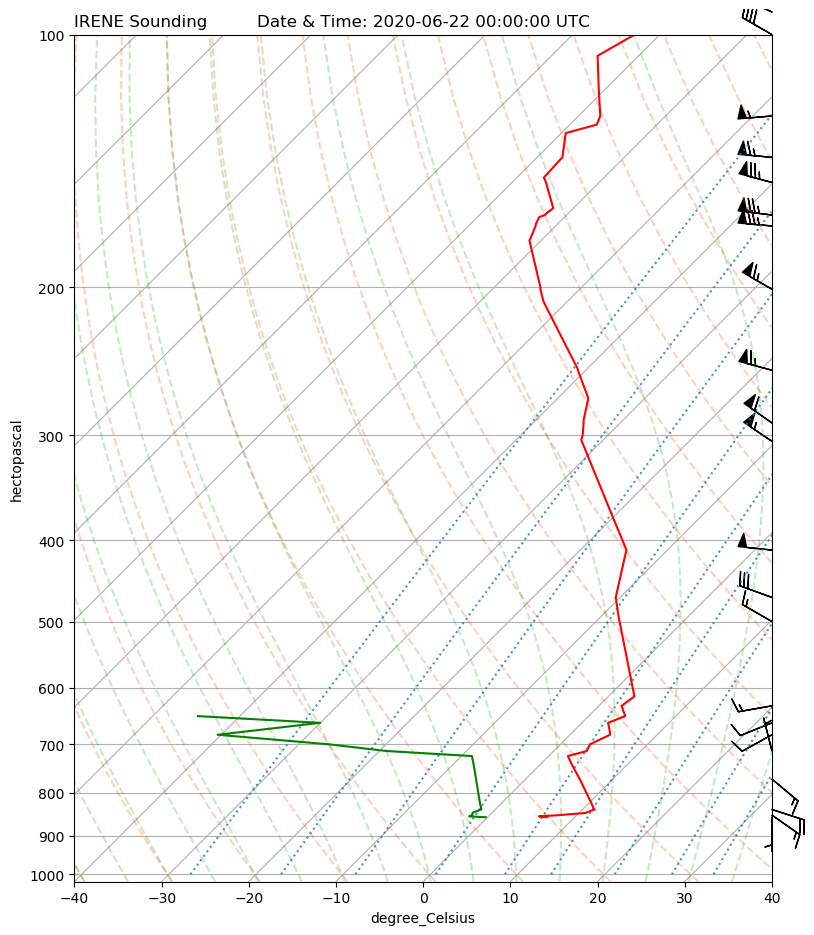
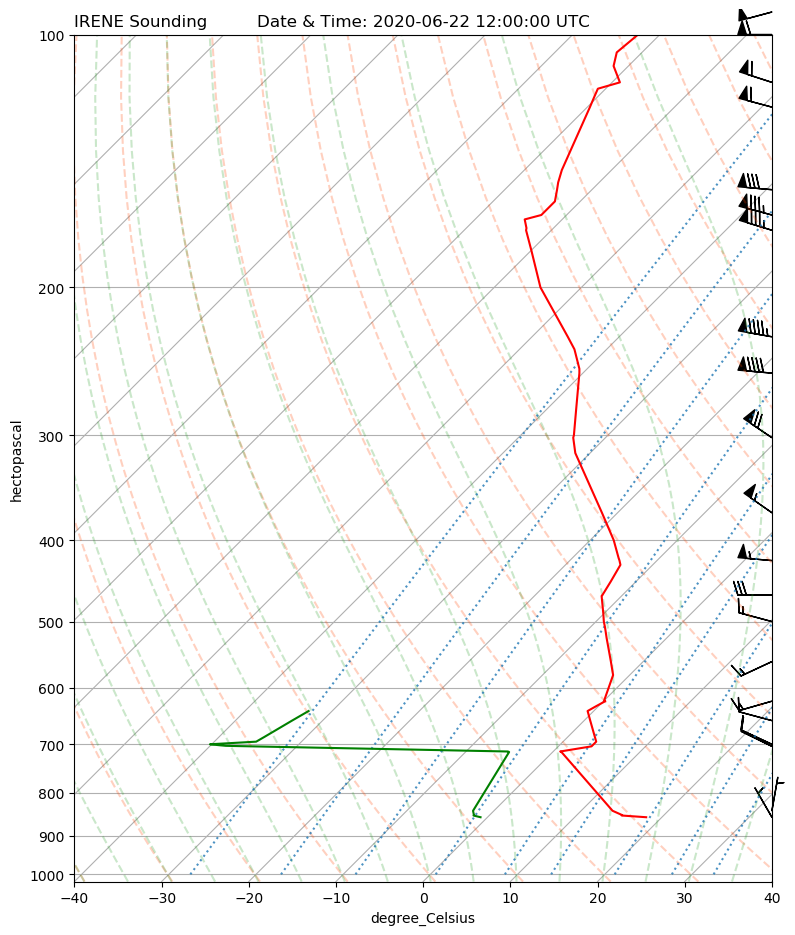
latest Irene sounding

Changed region(s): [[0.0302, 0.0, 0.9962, 0.9925], [0.0, 0.4652, 0.0302, 0.5273], [0.7547, 0.1551, 0.7849, 0.1861]]

diff --git a/sounding/Irene_real_time_Skew-T_Analysis.py b/sounding/Irene_real_time_Skew-T_Analysis.py
@@ -10,7 +10,7 @@ from siphon.simplewebservice.wyoming import WyomingUpperAir
 # Plan to soft code these variables in future updates, 
 
 # to make it easy to access any station in South Africa for any given time
-dt = datetime(2020, 6, 22, 0)
+dt = datetime(2020, 6, 22, 12)
 station = 'FAIR'
 
 # Grab remote data from server at the University of Wyoming. This requires internet connection.
